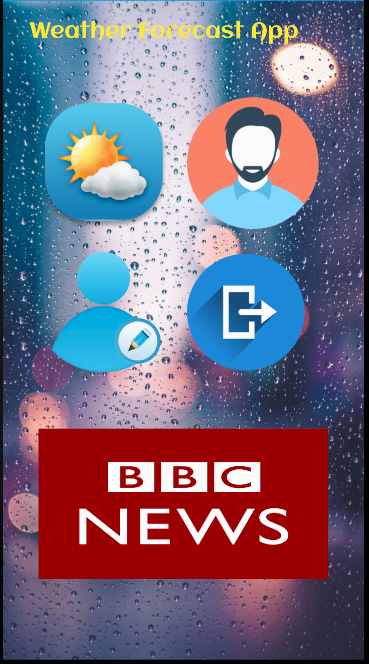
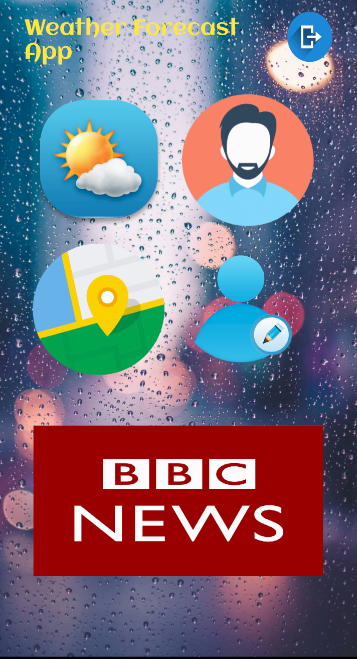
Updated Mobile Project

diff --git a/Mobile Project/Source/WheatherAplication/WheatherAplication-master/app/src/main/java/com/anioncode/wheatheraplication/MapsActivity.java b/Mobile Project/Source/WheatherAplication/WheatherAplication-master/app/src/main/java/com/anioncode/wheatheraplication/MapsActivity.java
@@ -1,0 +1,175 @@
+package com.anioncode.wheatheraplication;
+
+import android.Manifest;
+import android.content.Intent;
+import android.content.pm.PackageManager;
+import android.location.Address;
+import android.location.Geocoder;
+import android.location.Location;
+import android.os.Bundle;
+import androidx.annotation.NonNull;
+import androidx.appcompat.app.AppCompatActivity;
+
+import android.util.Log;
+import android.view.View;
+import android.widget.EditText;
+import android.widget.TextView;
+import androidx.core.content.FileProvider;
+
+
+import androidx.appcompat.app.AppCompatActivity;
+import androidx.core.app.ActivityCompat;
+import androidx.core.content.ContextCompat;
+
+import com.google.android.gms.location.FusedLocationProviderClient;
+import com.google.android.gms.location.LocationServices;
+import com.google.android.gms.maps.CameraUpdateFactory;
+import com.google.android.gms.maps.GoogleMap;
+import com.google.android.gms.maps.OnMapReadyCallback;
+import com.google.android.gms.maps.SupportMapFragment;
+import com.google.android.gms.maps.model.LatLng;
+import com.google.android.gms.maps.model.MarkerOptions;
+import com.google.android.gms.tasks.OnCompleteListener;
+import com.google.android.gms.tasks.Task;
+
+import java.io.IOException;
+import java.util.ArrayList;
+import java.util.List;
+
+public class MapsActivity extends AppCompatActivity implements OnMapReadyCallback {
+    //Declaring the variables
+    private GoogleMap mMap;
+    private static final String TAG = "HomeActivity";
+    private boolean mLocationPermission = false;
+    private FusedLocationProviderClient mFusedLocationProviderClient;
+
+    @Override
+    protected void onCreate(Bundle savedInstanceState) {
+        super.onCreate(savedInstanceState);
+        setContentView(R.layout.activity_maps);
+        checkLocationPermission();
+    }
+
+    /*
+     * This method will call after Map is ready.
+     * In this we will call the current location of the device.
+     */
+    @Override
+    public void onMapReady(GoogleMap googleMap) {
+        mMap = googleMap;
+        if (mLocationPermission) {
+            getCurrentLocation();
+            if (ActivityCompat.checkSelfPermission(this, Manifest.permission.ACCESS_FINE_LOCATION) != PackageManager.PERMISSION_GRANTED
+                    && ActivityCompat.checkSelfPermission(this, Manifest.permission.ACCESS_COARSE_LOCATION) != PackageManager.PERMISSION_GRANTED) {
+
+                return;
+            }
+            mMap.setMyLocationEnabled(true);
+        }
+    }
+
+    /*
+     * This method will call once the user select the permission either allow or deny.
+     * Once the permission is allow then we are initializing the map.
+     */
+    @Override
+    public void onRequestPermissionsResult(int requestCode, @NonNull String[] permissions, @NonNull int[] grantResults) {
+        mLocationPermission = false;
+        switch (requestCode) {
+            case 2345:
+                if (grantResults.length > 0 && grantResults[0] == PackageManager.PERMISSION_GRANTED) {
+                    mLocationPermission = true;
+                    initMap();
+                }
+        }
+    }
+
+    /*
+     * In this method we will initialize the map settings.
+     */
+    private void initMap() {
+        SupportMapFragment mapFragment = (SupportMapFragment) getSupportFragmentManager()
+                .findFragmentById(R.id.map);
+        mapFragment.getMapAsync(this);
+    }
+
+    /*
+     * This method will call when the user clicks on display info button.
+     * We will take the user entered location and then we will get details of the location by calling geocoder.getLocationFromName method.
+     */
+    public void getLocationDetails(View view){
+        EditText place = (EditText) findViewById(R.id.txtLocation);
+        Geocoder geocoder = new Geocoder(MapsActivity.this);
+        List<Address> addressList = new ArrayList<Address>();
+        try{
+            addressList = geocoder.getFromLocationName(place.getText().toString(),1);
+        }catch (IOException e){
+            Log.e(TAG,e.getMessage());
+        }
+        if(addressList.size() > 0){
+            Address address = addressList.get(0);
+            updateLocation(new LatLng(address.getLatitude(),address.getLongitude()),10f);
+        }
+    }
+
+    /*
+     * In this method we will check the location permission.
+     */
+    private void checkLocationPermission() {
+        String[] permissions = {Manifest.permission.ACCESS_FINE_LOCATION, Manifest.permission.ACCESS_COARSE_LOCATION};
+        if (ContextCompat.checkSelfPermission(this.getApplicationContext(),
+                Manifest.permission.ACCESS_FINE_LOCATION) == PackageManager.PERMISSION_GRANTED) {
+            if (ContextCompat.checkSelfPermission(this.getApplicationContext(),
+                    Manifest.permission.ACCESS_COARSE_LOCATION) == PackageManager.PERMISSION_GRANTED) {
+                mLocationPermission = true;
+                initMap();
+            } else {
+                ActivityCompat.requestPermissions(this, permissions, 2345);
+            }
+        } else {
+            ActivityCompat.requestPermissions(this, permissions, 2345);
+        }
+    }
+
+    /*
+     * In this method we will get the current location details.
+     */
+    private void getCurrentLocation() {
+        mFusedLocationProviderClient = LocationServices.getFusedLocationProviderClient(this);
+        try{
+            if(mLocationPermission){
+                final Task location = mFusedLocationProviderClient.getLastLocation();
+                location.addOnCompleteListener(new OnCompleteListener() {
+                    @Override
+                    public void onComplete(@NonNull Task task) {
+                        if(task.isSuccessful())
+                        {
+                            Log.i(TAG,"Location found");
+                            Location currentLocation = (Location) task.getResult();
+                            updateLocation(new LatLng(currentLocation.getLatitude(),currentLocation.getLongitude()),15f);
+                        } else{
+                            Log.e(TAG,"Location not found");
+                        }
+                    }
+                });
+            }
+        }catch (SecurityException e)
+        {
+            Log.e(TAG,e.getMessage());
+        }
+    }
+
+    /*
+     * In this method we will update the marker and latitude and longitude details.
+     */
+    private void updateLocation(LatLng latlng, float zoom){
+        mMap.moveCamera(CameraUpdateFactory.newLatLngZoom(latlng,zoom));
+        // Add a marker in Sydney and move the camera
+        mMap.addMarker(new MarkerOptions().position(latlng).title("Latitude : "+latlng.latitude+" "+"Longitude : "+latlng.longitude));
+
+        TextView lat = (TextView) findViewById(R.id.lblLatText);
+        TextView lng = (TextView) findViewById(R.id.lblLngText);
+        lat.setText(latlng.latitude+"");
+        lng.setText(latlng.longitude+"");
+    }}
+

diff --git a/Mobile Project/Source/WheatherAplication/WheatherAplication-master/app/src/main/java/com/anioncode/wheatheraplication/HomeActivity.java b/Mobile Project/Source/WheatherAplication/WheatherAplication-master/app/src/main/java/com/anioncode/wheatheraplication/HomeActivity.java
@@ -29,6 +29,11 @@ public class HomeActivity extends AppCompatActivity {
         startActivity(redirect);
     }
 
+    public void maps(View v) {
+        //This code redirects to the news activity.
+        Intent redirect = new Intent(HomeActivity.this, MapsActivity.class);
+        startActivity(redirect);
+    }
     public void editprofile(View v) {
         //This code redirects to the news activity.
         Intent redirect = new Intent(HomeActivity.this, EditProfile.class);
